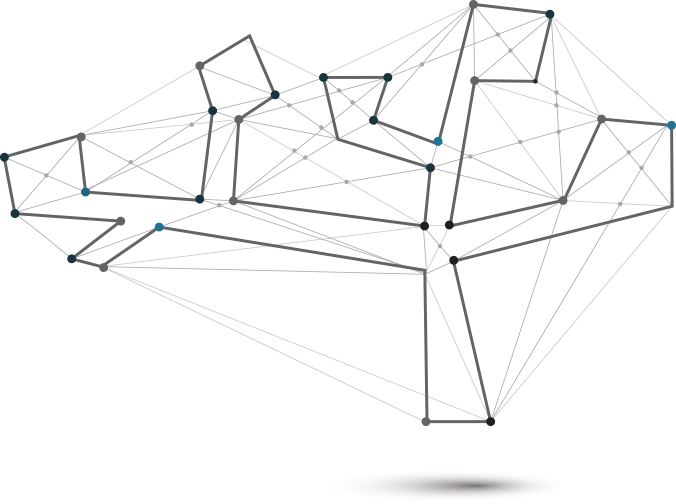
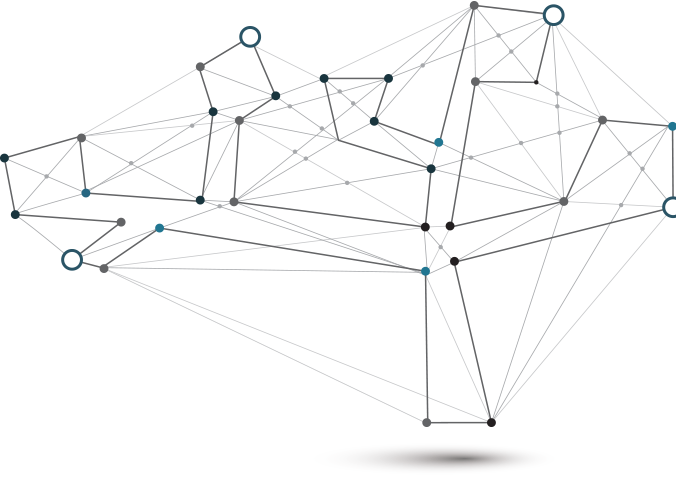
arraru

diff --git a/ac02/index02_files/style.css b/ac02/index02_files/style.css
@@ -498,15 +498,16 @@ section{
 	position:absolute;
 	width: 25px;
     height: 25px;
-    background: #207492;
+    border:4px #207492 solid;
+	background:#fff;
 	border-radius:100%;
 	cursor:pointer;
 	-webkit-transition:.3s ease;
 	transition:.3s ease;
 }
 .tree .bulle.active {
-	border:2px #207492 solid;
-	background:#fff;
+	background: #207492;
+	border:0px #207492 solid;
 }
 .bulle-01 {left: 712px;top: 125px;}
 .bulle-02 {left: 408px;top: 145px;}
